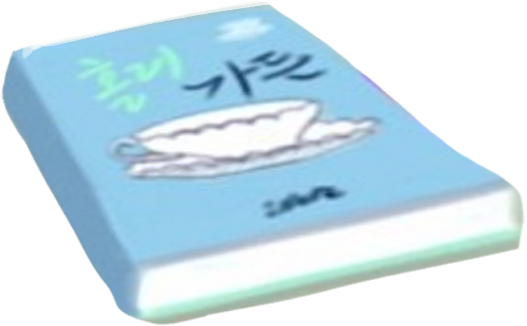
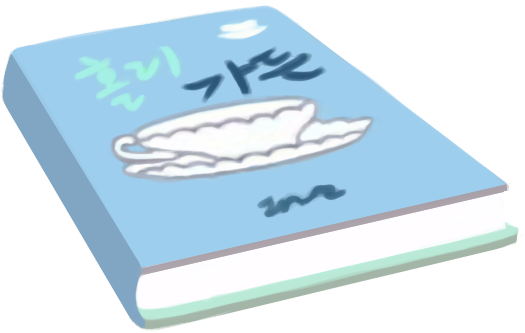
Added CKEditor + changed for new psd design

diff --git a/su-client/src/views/Diary.vue b/su-client/src/views/Diary.vue
@@ -1,40 +1,27 @@
 <template>
     <div>
-        <div class="container">
-            <div class="row">
-                <div class="col-md-12 mt-5 d-flex justify-content-center">
-                    <img src="../assets/homepage/Book.png" width="10%" alt="">
-                </div>
-            </div>
-        </div>
+
         <div class="container mt-5">
             <div class="row masonry-grid">
-                <div class="col-md-12 col-lg-4 col-sm-12 masonry-column p-0 m-0">
-                    <div class="post">
-                        <div class="post-overlay" >
-                            <h2 class="mb-4 mt-4">rrr</h2>
-                            <p class="ml-4">Lorem ipsum dolor sit amet, consectetur adipisicing elit. Doloremque libero numquam pariatur qui quia, quibusdam totam voluptatem? Deserunt, explicabo perspiciatis.</p>
-                            <router-link  to="#" class="learn-more ml-4 mt-2"> Learn More ...</router-link>
-                        </div>
-                    </div>
+                <div class="col-md-12 col-lg-3 col-sm-12 masonry-column p-2 m-0">
+                   <DiaryCategory/>
+                   <DiaryCategory/>
+                   <DiaryCategory/>
                 </div>
-                <div class="col-md-12 col-lg-4 col-sm-12 masonry-column p-0 m-0">
-                    <div class="post">
-                        <div class="post-overlay" >
-                            <h2 class="mb-4 mt-4">rrr</h2>
-                            <p class="ml-4">Lorem ipsum dolor sit amet, consectetur adipisicing elit. Doloremque libero numquam pariatur qui quia, quibusdam totam voluptatem? Deserunt, explicabo perspiciatis.</p>
-                            <router-link  to="#" class="learn-more ml-4 mt-2"> Learn More ...</router-link>
-                        </div>
-                    </div>
+                <div class="col-md-12 col-lg-3 col-sm-12 masonry-column p-2 m-0">
+                    <DiaryCategory/>
+                    <DiaryCategory/>
+                    <DiaryCategory/>
                 </div>
-                <div class="col-md-12 col-lg-4 col-sm-12 masonry-column p-0 m-0">
-                    <div class="post">
-                        <div class="post-overlay" >
-                            <h2 class="mb-4 mt-4">rrr</h2>
-                            <p class="ml-4">Lorem ipsum dolor sit amet, consectetur adipisicing elit. Doloremque libero numquam pariatur qui quia, quibusdam totam voluptatem? Deserunt, explicabo perspiciatis.</p>
-                            <router-link  to="#" class="learn-more ml-4 mt-2"> Learn More ...</router-link>
-                        </div>
-                    </div>
+                <div class="col-md-12 col-lg-3 col-sm-12 masonry-column p-2 m-0">
+                    <DiaryCategory/>
+                    <DiaryCategory/>
+                    <DiaryCategory/>
+                </div>
+                <div class="col-md-12 col-lg-3 col-sm-12 masonry-column p-2 m-0">
+                    <DiaryCategory/>
+                    <DiaryCategory/>
+                    <DiaryCategory/>
                 </div>
             </div>
         </div>
@@ -43,8 +30,12 @@
 </template>
 
 <script>
+
+    import DiaryCategory from "../components/Diary/DiaryCategory";
+
     export default {
         name: "Diary",
+        components:{DiaryCategory},
         data: function () {
             return{
                 posts:{
@@ -85,6 +76,12 @@
 
     .masonry-grid > div  {
         margin: 5px 1px;
+    }
+    .post1{
+        height:400px;
+    }
+    .post2{
+        height:600px;
     }
 
 

diff --git a/su-client/src/views/Message.vue b/su-client/src/views/Message.vue
@@ -1,5 +1,48 @@
 <template>
-    <p>message</p>
+    <div class="container">
+        <div class="row mt-5">
+            <div class="col-md-8 offset-md-2 mt-5 ">
+                <h1 class="mt-5 mb-5">Contact Me !</h1>
+                <form action="">
+                    <div class="row">
+                        <div class="col-md-6">
+                            <div class="form-group">
+                                <label for="name"> Name :</label>
+                                <input type="text" class="form-control" id="name" required>
+                            </div>
+                        </div>
+                        <div class="col-md-6">
+                            <div class="form-group">
+                                <label for="email"> Email:</label>
+                                <input type="email" class="form-control" id="email" >
+                            </div>
+                        </div>
+                    </div>
+                    <div class="row">
+                        <div class="col-md-12">
+                            <div class="form-group">
+                                <label for="subject">Subject:</label>
+                                <input type="text" class="form-control" id="subject" >
+                            </div>
+                        </div>
+                    </div>
+                    <div class="row">
+                        <div class="col-md-12">
+                            <div class="form-group">
+                                <label for="message">Message :</label>
+                                <textarea class="form-control" id="message" rows="7"></textarea>
+                            </div>
+                        </div>
+                    </div>
+                    <div class="row">
+                        <div class="col-md-12">
+                            <button class="submit-form-button"> Send Message</button>
+                        </div>
+                    </div>
+                </form>
+            </div>
+        </div>
+    </div>
 </template>
 
 <script>
@@ -9,5 +52,21 @@
 </script>
 
 <style scoped>
+    *{
+        text-align: justify;
+        font-family: 'Libre Baskerville', serif;
+    }
+
+    h1 {
+        font-family: 'Libre Baskerville', serif;
+        text-transform: uppercase;
+        font-size: 40pt;
+    }
+    input:focus , textarea:focus{
+        outline: 3px solid #eedee1;
+        box-shadow: none;
+        -moz-box-shadow: none;
+        -webkit-box-shadow: none;
+    }
 
 </style>

diff --git a/su-client/src/views/Home.vue b/su-client/src/views/Home.vue
@@ -1,21 +1,25 @@
 <template>
   <main class="homepage" id="homepage">
-    <img src="../assets/homepage/Room_PC.jpg" width="100%" height="100%" alt="">
+    <img src="../assets/homepage/Room_PC.png" width="100%" height="100%" alt="">
 
     <router-link to="/diary">
-      <img src="../assets/homepage/Book.png" width="10%" alt="book" class="book">
+      <img src="../assets/homepage/Book.png" width="8%" alt="book" class="book">
     </router-link>
 
     <router-link to="/about">
-      <img src="../assets/homepage/Sloth.png"  width="10%" alt="sloth" class="sloth">
+      <img src="../assets/homepage/Sloth.png"  width="10.7%" alt="sloth" class="sloth">
     </router-link>
 
     <router-link to="/shop">
-      <img src="../assets/homepage/Cactus.png" width="10%" alt="cactus" class="cactus">
+      <img src="../assets/homepage/Cactus.png" width="8%" alt="cactus" class="cactus">
     </router-link>
-
+    
+    <router-link to="/message">
+      <img src="../assets/homepage/Contact.png" width="4%" alt="contact" class="contact">
+    </router-link>
+    
     <router-link to="/gallery">
-      <img src="../assets/homepage/Frame.png" width="30%" alt="frame" class="frame">
+      <img src="../assets/homepage/Frame.png" width="36%" alt="frame" class="frame">
     </router-link>
 
   </main>
@@ -54,28 +58,34 @@ export default {
 
   .book{
     position: absolute;
-    bottom: 7%;
-    left: 3%;
+    bottom: 11%;
+    left: 5.6%;
   }
 
   .sloth{
     position: absolute;
-    bottom: 7%;
-    left: 13%;
+    bottom: 6.7%;
+    left: 14.2%;
   }
 
   .cactus{
     position: absolute;
-    bottom: 20%;
-    right:8%;
+    bottom: 20.5%;
+    right:9%;
   }
   .frame{
     position: absolute;
-    left: 40%;
-    top:0;
+    left: 40.4%;
+    top:-3.7%;
   }
 
-  .book:hover, .sloth:hover , .cactus:hover, .frame:hover{
+  .contact{
+    position: absolute;
+    bottom: 36%;
+    left: 37.5%;
+  }
+
+  .book:hover, .sloth:hover , .cactus:hover, .frame:hover, .contact:hover{
     animation: pulse 1s infinite;
     animation-timing-function: linear;
   }

diff --git a/su-client/src/components/GoeyCards/Figure.vue b/su-client/src/components/GoeyCards/Figure.vue
@@ -8,9 +8,16 @@
 
     export default {
         name: "Figure",
+        props : {
+            scene : {
+                required : true,
+                type : Object
+            }
+        },
         data : function (){
             return {
-                scene : null ,
+                // scene: this.props.scene,
+                figureScene : null,
                 $image : null ,
                 image : null,
                 loader : null ,
@@ -37,8 +44,21 @@
                 this.mesh.position.set(this.offset.x, this.offset.y, 0)
                 this.mesh.scale.set(this.sizes.x, this.sizes.y, 1)
 
-                this.scene.add(this.mesh)
+                this.figureScene.add(this.mesh)
             }
+        },
+        created() {
+            this.$image = document.querySelector('.tile__image')
+            this.figureScene = this.props.scene
+
+            this.loader = new THREE.TextureLoader()
+
+            this.image = this.loader.load(this.$image.dataset.src)
+            this.hoverImage = this.loader.load(this.$image.dataset.hover)
+            this.sizes = new THREE.Vector2(0, 0)
+            this.offset = new THREE.Vector2(0, 0)
+            this.getSizes()
+            this.createMesh()
         }
 
     }

diff --git a/su-client/src/views/About.vue b/su-client/src/views/About.vue
@@ -5,6 +5,7 @@
 
             <div class="row">
                 <div class="col-md-12 about_image_container d-flex justify-content-center">
+                    <h1>About Me</h1>
                     <img
                             src="https://images.unsplash.com/photo-1517841905240-472988babdf9?ixlib=rb-1.2.1&ixid=eyJhcHBfaWQiOjEyMDd9&auto=format&fit=crop&w=934&q=80"
                             class="about_image mt-2"
@@ -55,19 +56,18 @@
 </script>
 
 <style scoped>
-    /*h1 {*/
-    /*    font-family: 'Libre Baskerville', serif;*/
-    /*    text-transform: uppercase;*/
-    /*    font-size: 50pt;*/
-    /*    position: absolute;*/
-    /*    top: -35px;*/
-    /*    right:50px;*/
-    /*    color: white;*/
+    h1 {
+        font-family: 'Libre Baskerville', serif;
+        text-transform: uppercase;
+        font-size: 50pt;
+        position: absolute;
+        top: 100px;
+        right:150px;
 
-    /*}*/
+
+    }
 
     .about {
-        background-color: #d7c9d1;
         height: 100vh;
     }
 

diff --git a/su-client/src/components/Diary/DiaryCategory.vue b/su-client/src/components/Diary/DiaryCategory.vue
@@ -1,0 +1,22 @@
+<template>
+    <div class="post">
+        <div class="post-overlay" >
+            <img src="https://images.unsplash.com/photo-1593780125714-b9e718f8a0ae?ixlib=rb-1.2.1&ixid=eyJhcHBfaWQiOjEyMDd9&auto=format&fit=crop&w=500&q=60" width="100%" alt="">
+            <h5 class="mb-3 mt-3">Title of category</h5> <p>date</p>
+<!--            <p class="ml-0 text-center">Lorem ipsum dolor sit amet, consectetur adipisicing elit. Doloremque libero numquam pariatur qui quia</p>-->
+<!--            <p class="ml-0 text-center">Lorem ipsum dolor sit amet, consectetur adipisicing elit. Doloremque libero numquam pariatur qui quia</p>-->
+<!--            <router-link  to="#" class="learn-more ml-4 mt-2"> Learn More ...</router-link>-->
+        </div>
+        <hr class="mb-4">
+    </div>
+</template>
+
+<script>
+    export default {
+        name: "DiaryCategory"
+    }
+</script>
+
+<style scoped>
+
+</style>

diff --git a/su-client/src/App.vue b/su-client/src/App.vue
@@ -12,7 +12,7 @@
     body, html {
         height: 100%;
         margin: 0;
-        background-color: #d7c9d1;;
+        /*background-color: #d7c9d1;;*/
     }
 
     .homepage {
@@ -32,6 +32,6 @@
   text-align: center;
   color: #2c3e50;
   height: 100vh;
-  background-color: #d7c9d1;;
+  background-color: #fffcfd;;
 }
 </style>

diff --git a/su-client/src/main.js b/su-client/src/main.js
@@ -2,6 +2,9 @@ import Vue from 'vue'
 import App from './App.vue'
 import router from './router'
 import store from './store'
+import axios from 'axios'
+
+Vue.prototype.$axios = axios
 
 Vue.config.productionTip = false
 

diff --git a/su-client/src/views/DiaryEntry.vue b/su-client/src/views/DiaryEntry.vue
@@ -1,0 +1,13 @@
+<template>
+    <p>diaryEntry</p>
+</template>
+
+<script>
+    export default {
+        name: "DiaryEntry"
+    }
+</script>
+
+<style scoped>
+
+</style>

diff --git a/su-client/src/components/GoeyCards/Scene.vue b/su-client/src/components/GoeyCards/Scene.vue
@@ -16,7 +16,7 @@
 
       <canvas ref="stage" id="stage"></canvas>
 
-      <Figure/>
+      <Figure :scene="this.scene" />
   </div>
 </template>
 
